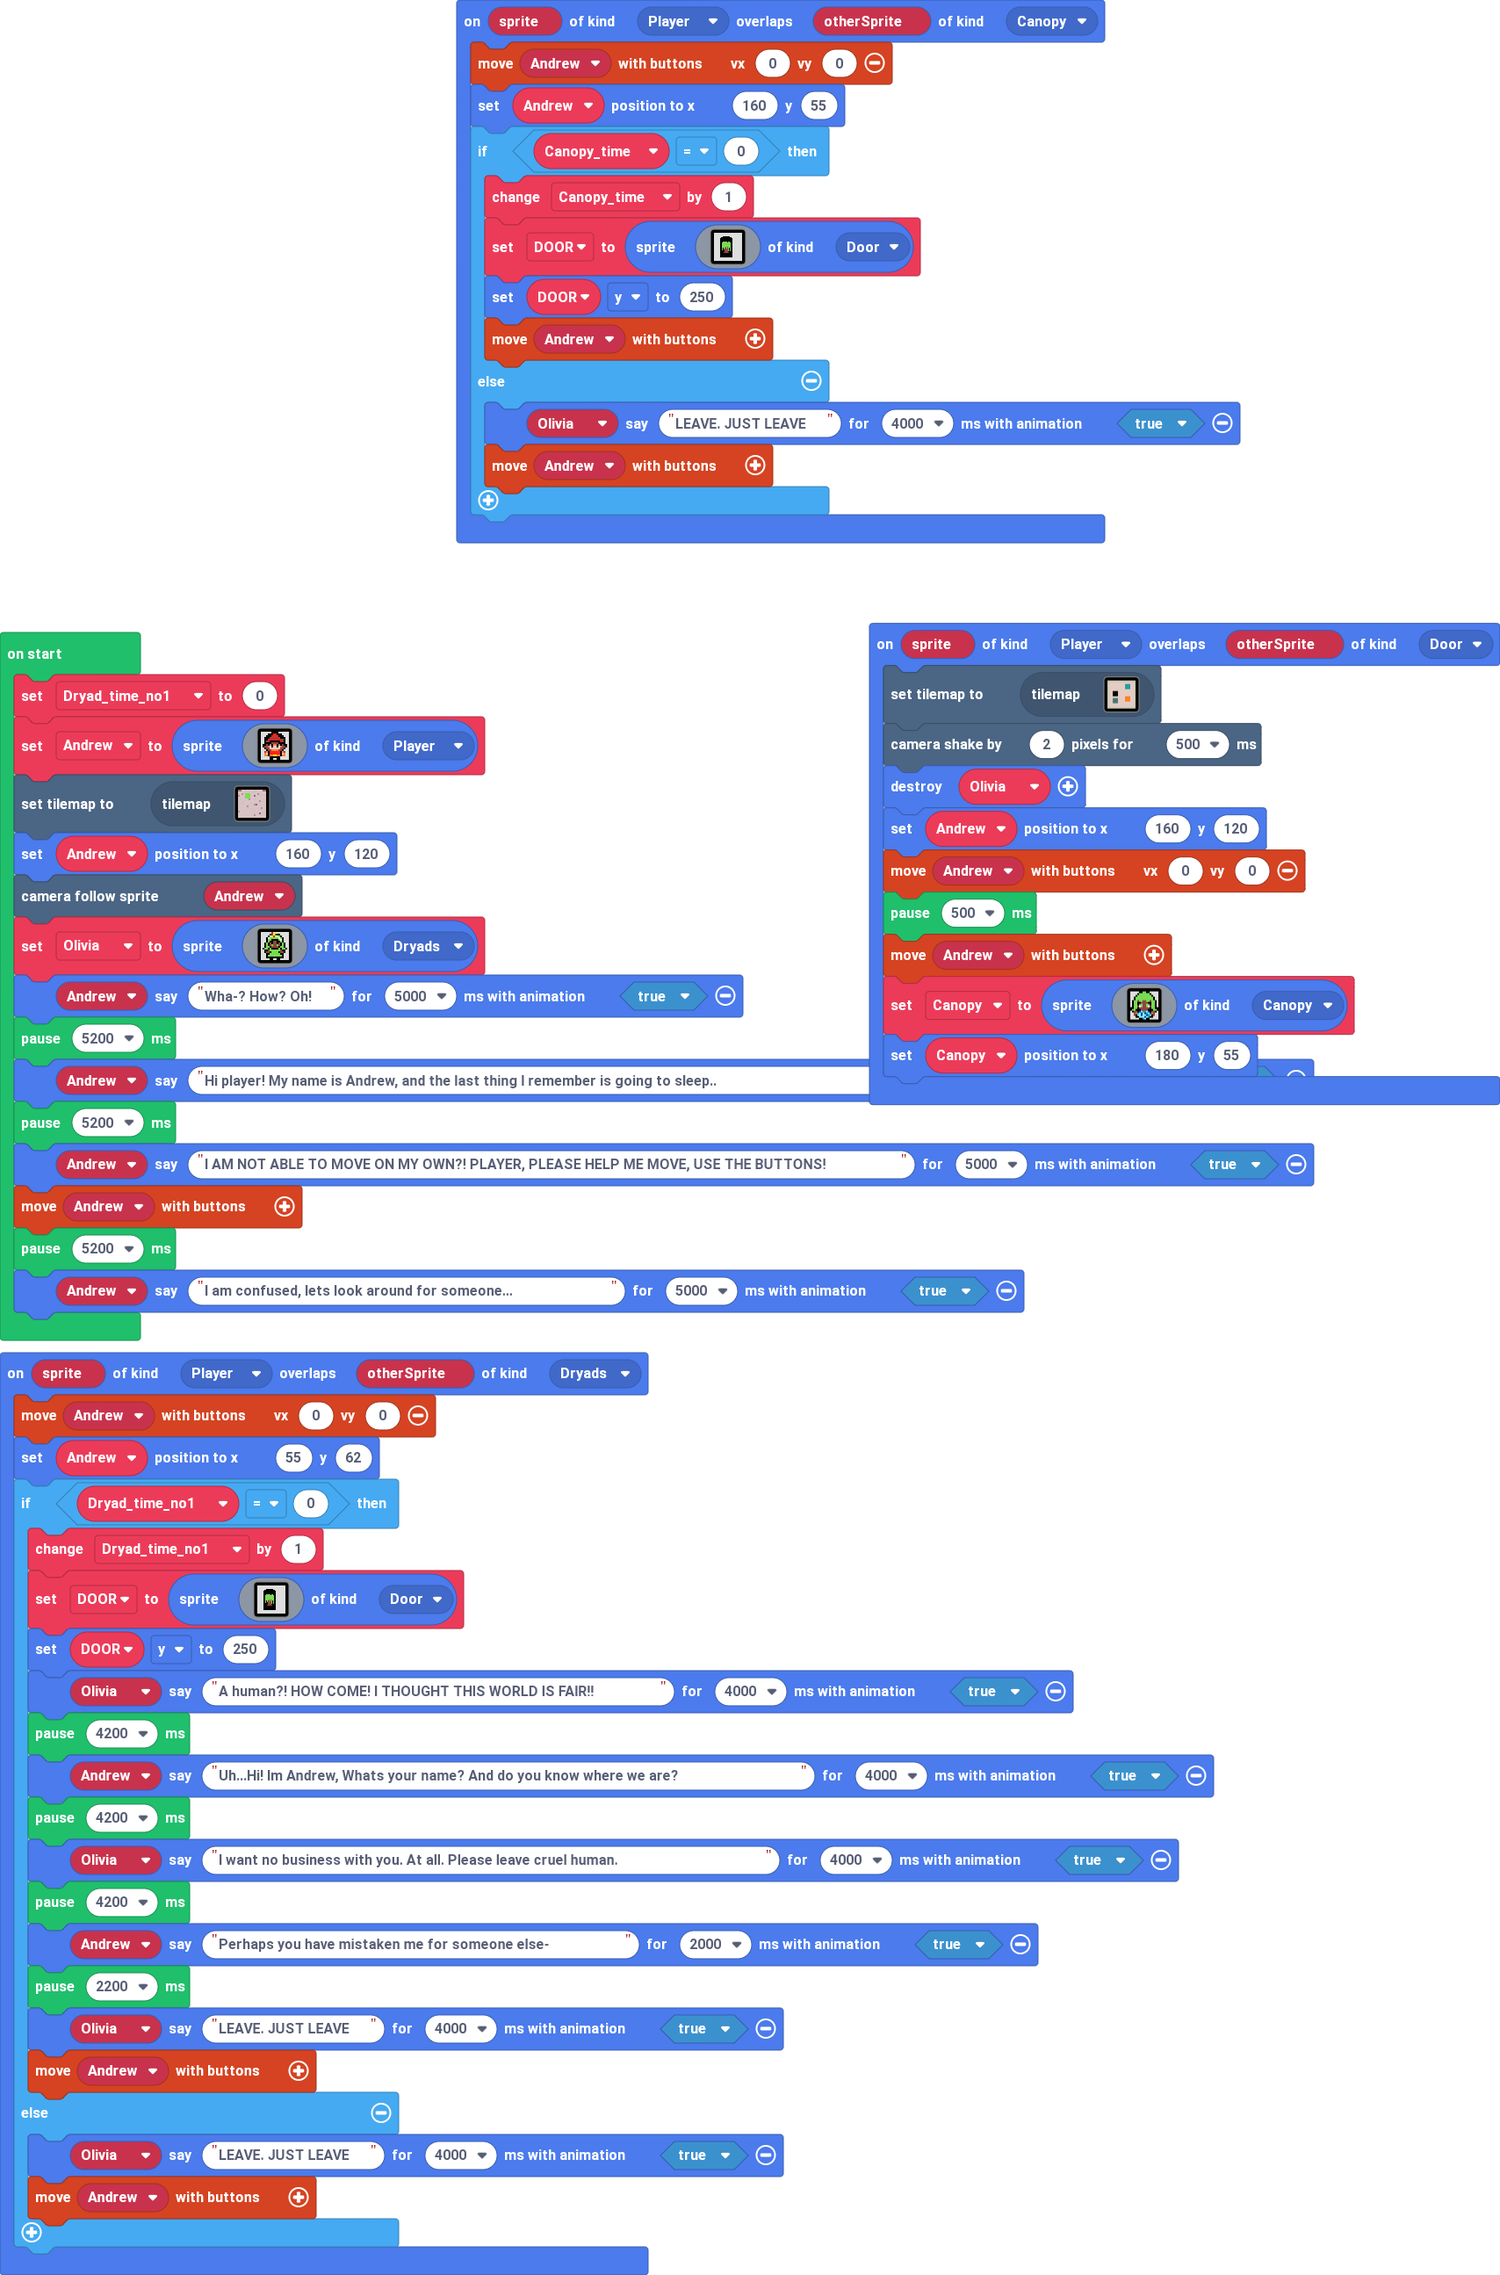
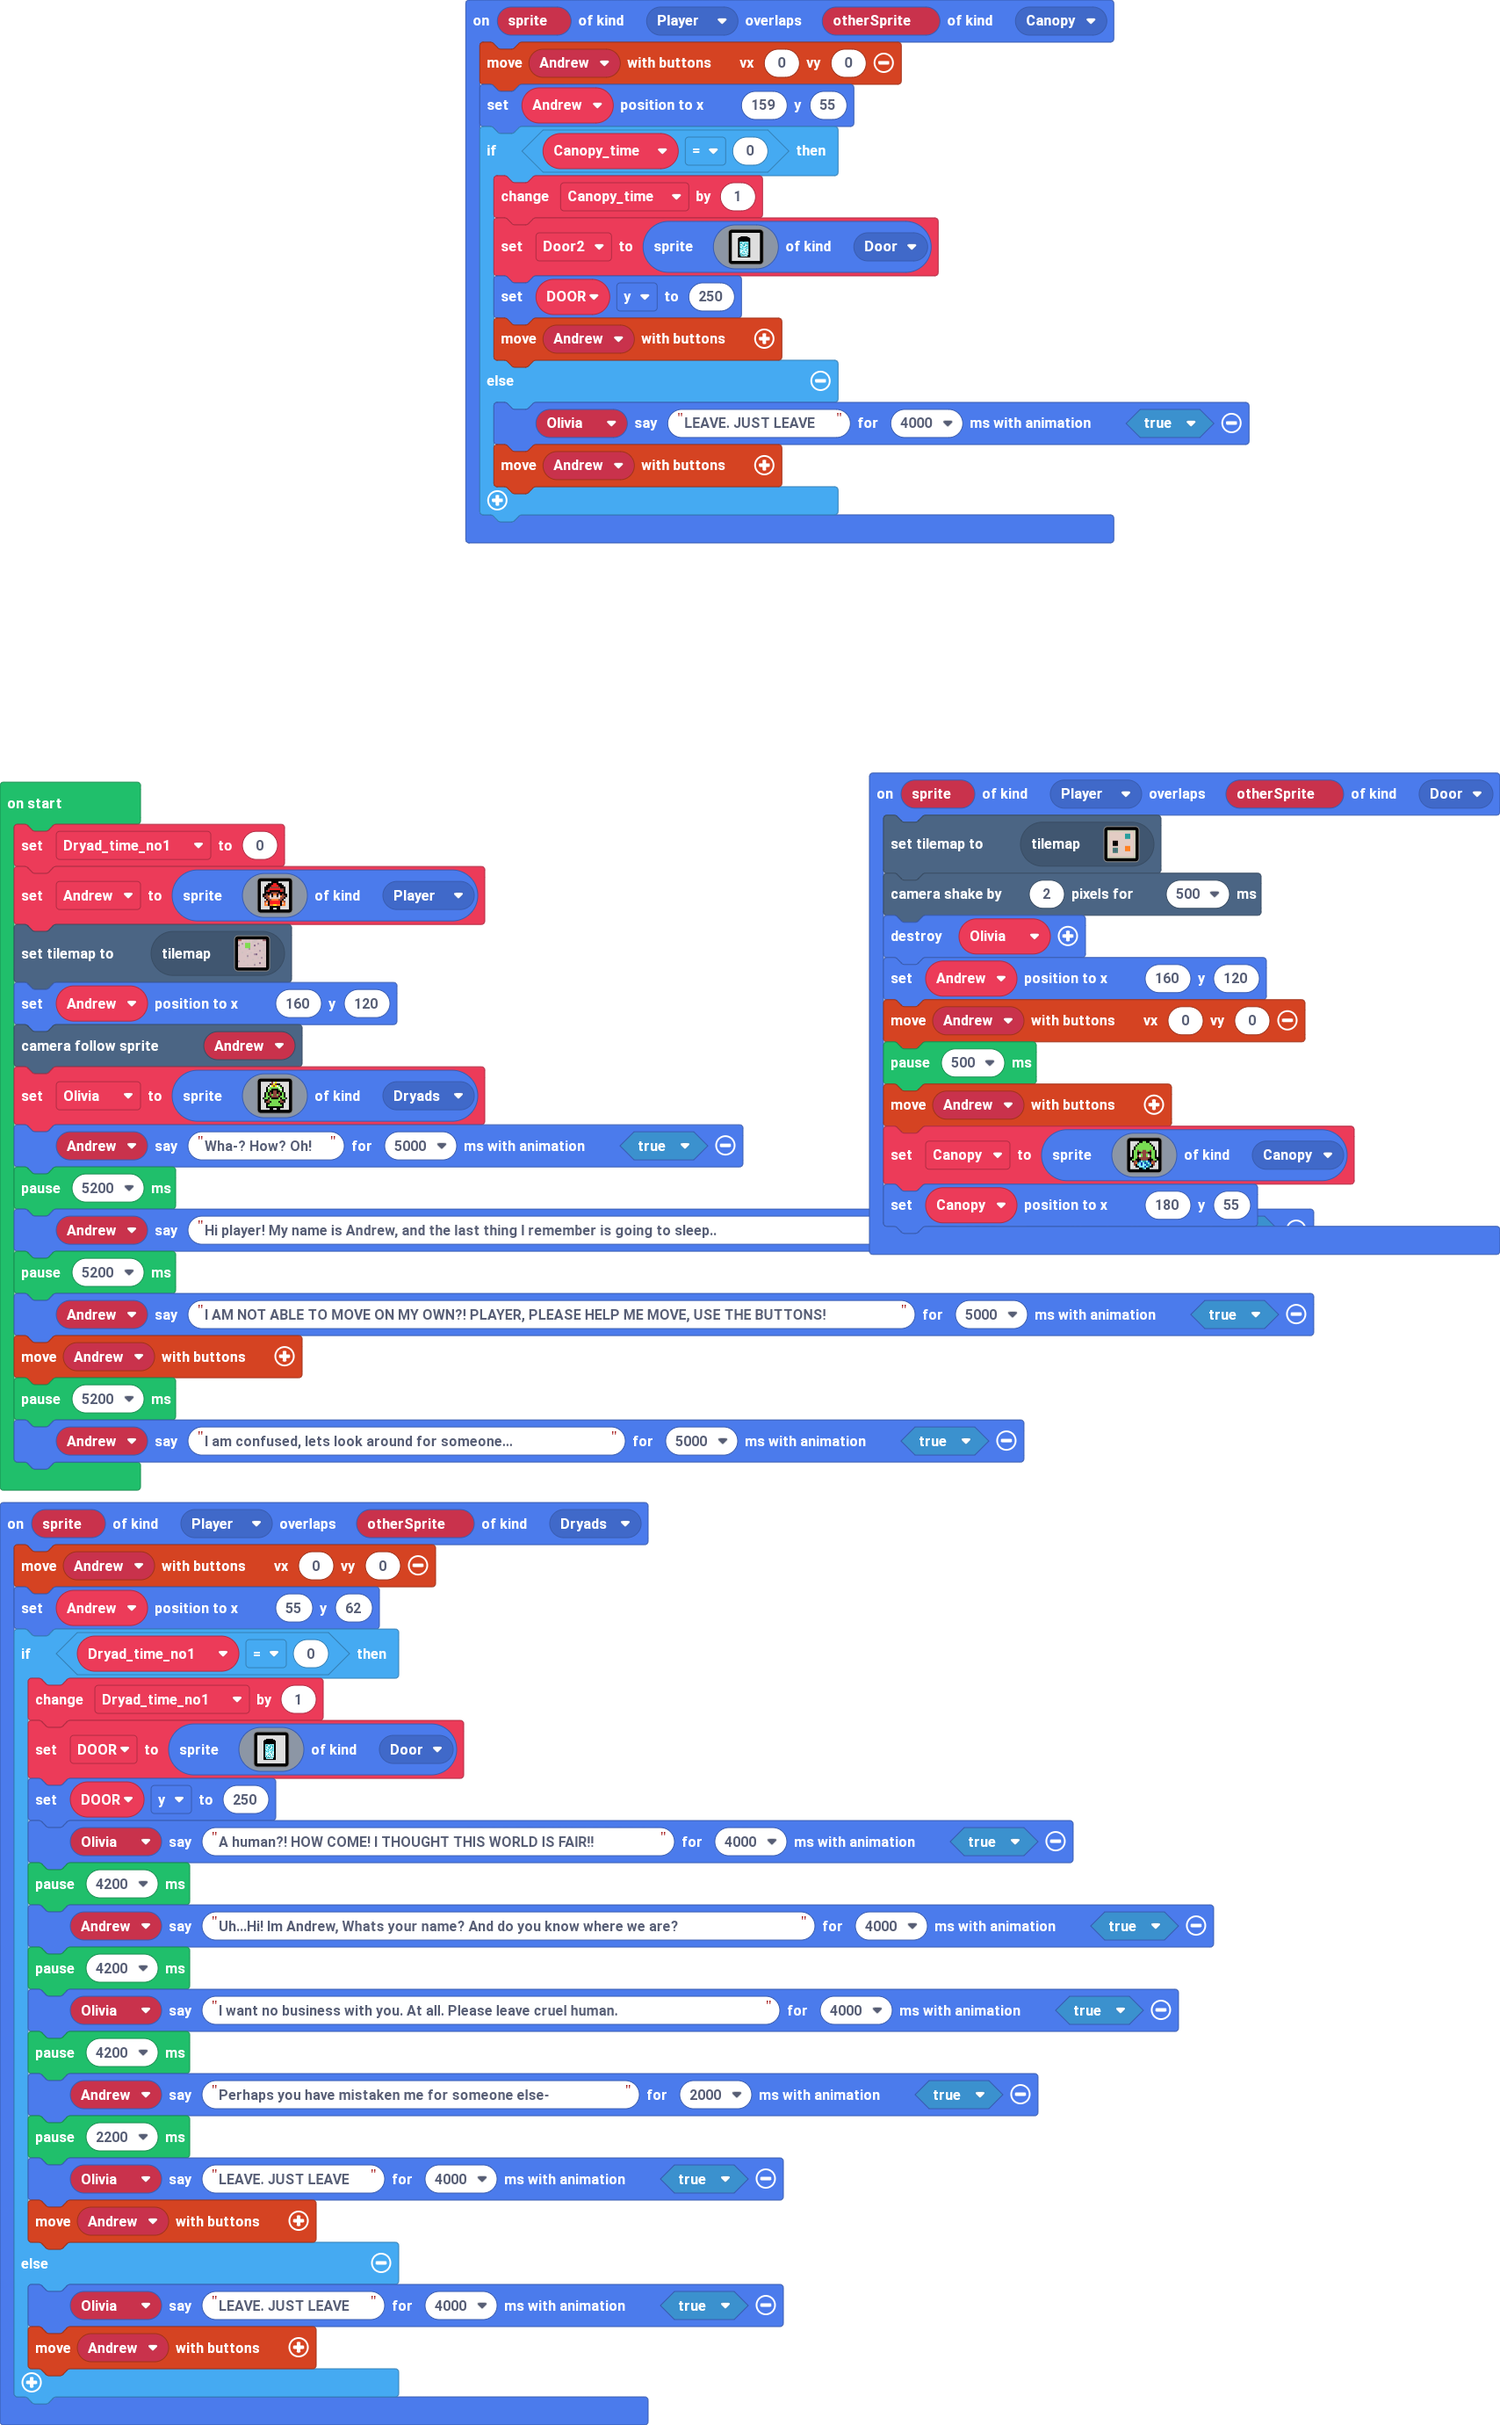
Update main.blocks, main.ts, images.g.jres, images.g.ts

diff --git a/images.g.ts b/images.g.ts
@@ -15,23 +15,23 @@ namespace myImages {
 .......ffffffffffffff...........
 .......ffffffffffffff...........
 .......ffffffffffffff...........
-.......fff77777f77fff...........
-.......ff7777777777ff...........
-.......ff7777777777ff...........
-.......ff7777777777ff...........
-.......ff7777777777ff...........
-.......ff7777777777ff...........
-.......ff7777e7e777ff...........
-.......ff7f7ee7e7f7ff...........
-.......ff7f7eeee7f7ff...........
-.......ff7ffeeee7f7ff...........
-.......fffffeeee7f7ff...........
-.......fffffeeeefffff...........
-.......ffffeeeeeeffff...........
-.......ffffffffffffff...........
-.......ffffffffffffff...........
-.......ffffffffffffff...........
-.......ffffffffffffff...........
+.......ff9999699919ff...........
+.......ff9661196969ff...........
+.......ff9699969969ff...........
+.......ff9116969169ff...........
+.......ff9619661199ff...........
+.......ff9999911669ff...........
+.......ff9196996999ff...........
+.......ff6999999969ff...........
+.......ff9696191619ff...........
+.......ff9199916991ff...........
+.......ff9911991619ff...........
+.......ff9116991199ff...........
+.......ff9199969161ff...........
+.......ff9691919196ff...........
+.......ff9616196191ff...........
+.......fff96666169fff...........
+.......fff99191919fff...........
 .......ffffffffffffff...........
 ................................
 ................................

diff --git a/main.ts b/main.ts
@@ -5,10 +5,10 @@ namespace SpriteKind {
 }
 sprites.onOverlap(SpriteKind.Player, SpriteKind.Canopy, function (sprite, otherSprite) {
     controller.moveSprite(Andrew, 0, 0)
-    Andrew.setPosition(160, 55)
+    Andrew.setPosition(159, 55)
     if (Canopy_time == 0) {
         Canopy_time += 1
-        DOOR = sprites.create(assets.image`myImage`, SpriteKind.Door)
+        Door2 = sprites.create(assets.image`myImage`, SpriteKind.Door)
         DOOR.y = 250
         controller.moveSprite(Andrew)
     } else {
@@ -68,6 +68,7 @@ sprites.onOverlap(SpriteKind.Player, SpriteKind.Dryads, function (sprite, otherS
 })
 let Canopy: Sprite = null
 let DOOR: Sprite = null
+let Door2: Sprite = null
 let Canopy_time = 0
 let Olivia: Sprite = null
 let Andrew: Sprite = null
